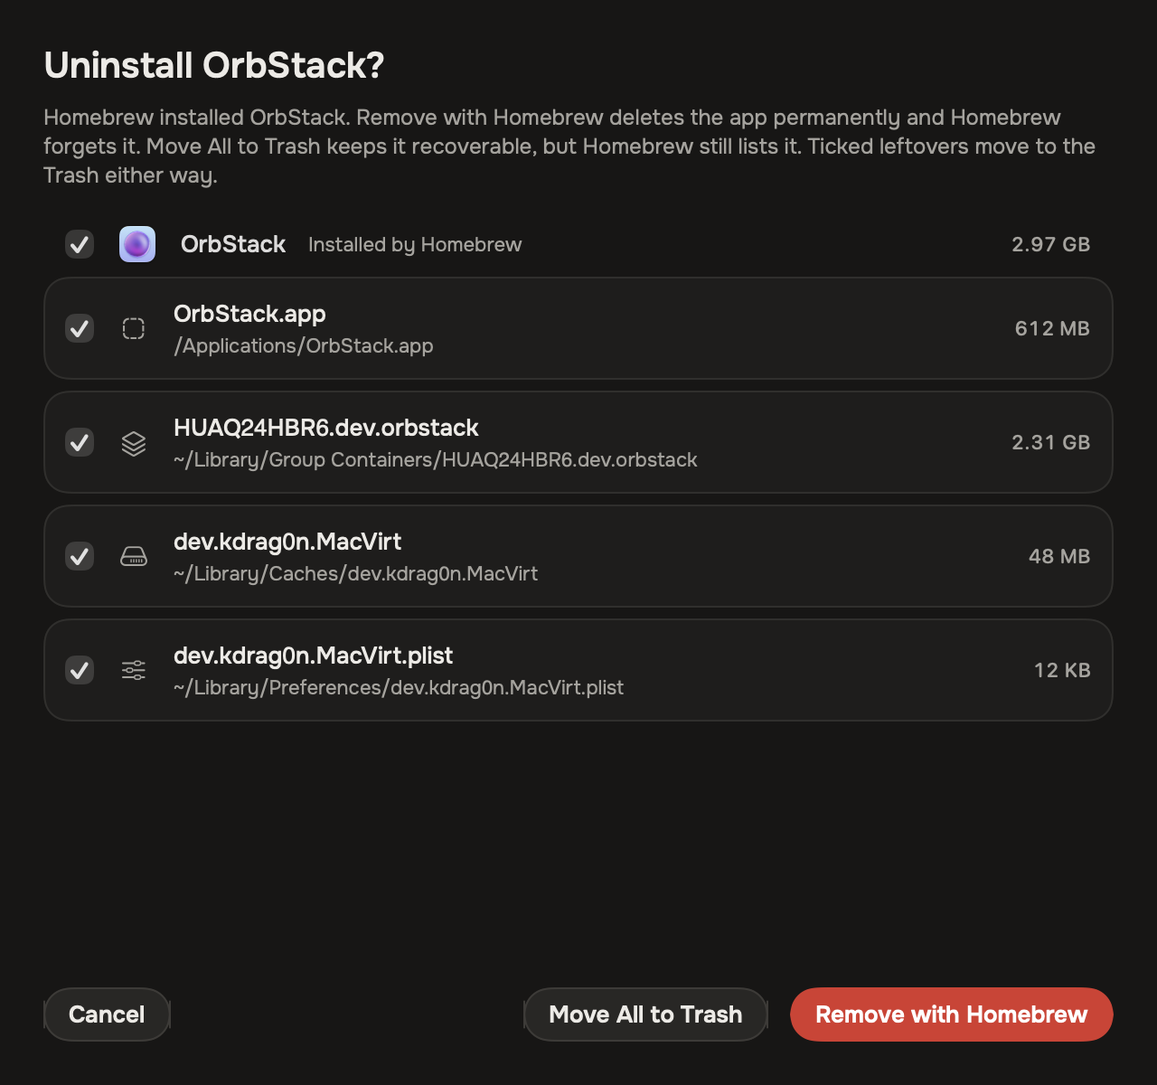
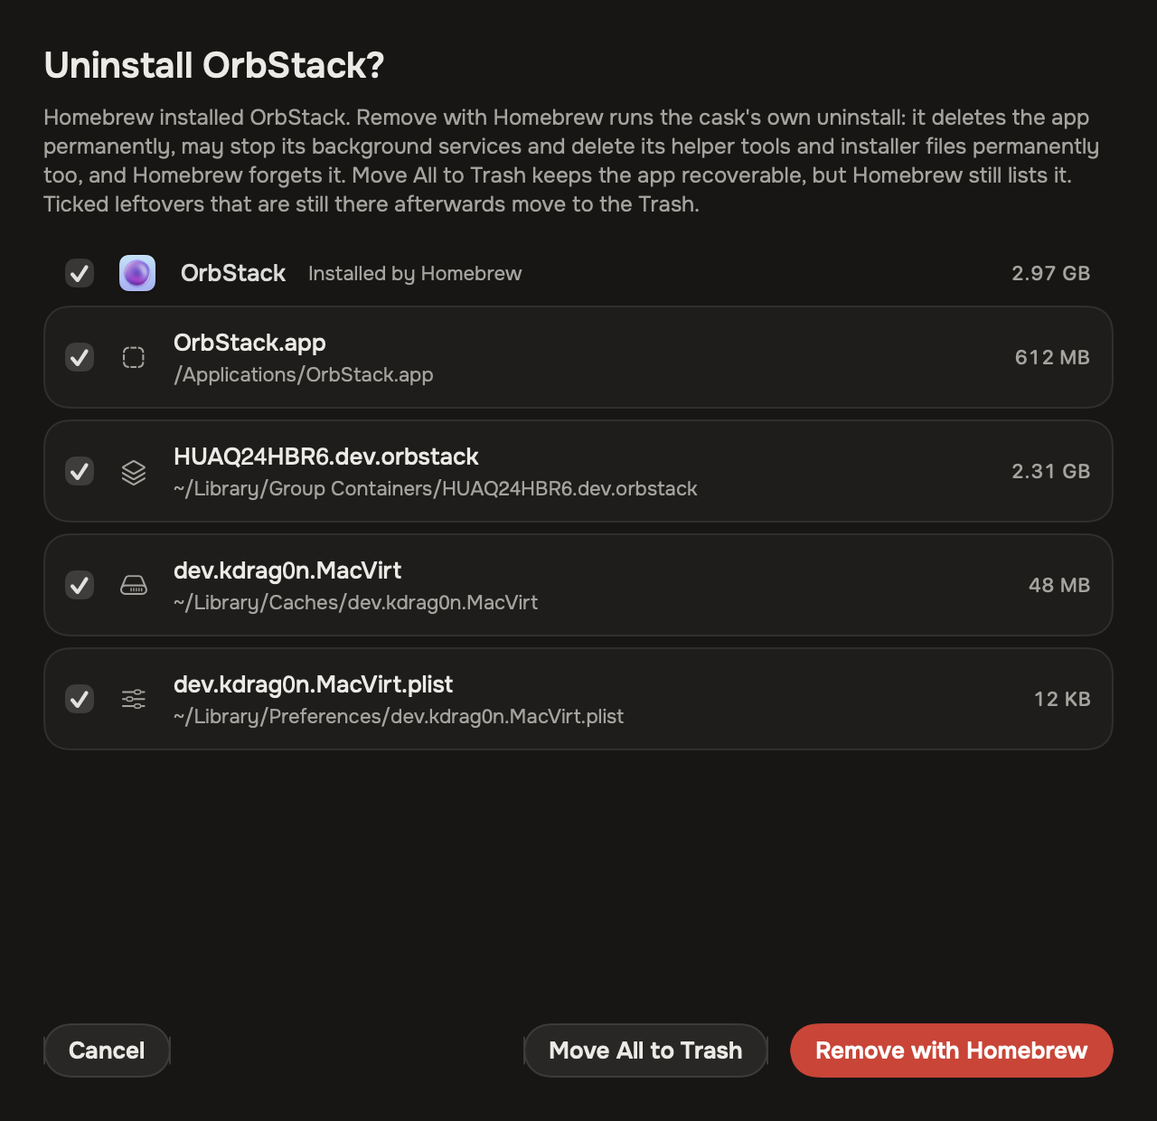
fix: address the review on the Homebrew cask uninstall
A cask that installs several apps is never offered to Homebrew, because
brew uninstall --cask would remove the siblings too. The sheet and the
docs say Homebrew also runs the cask's own uninstall steps. A fallback
note only claims the Trash once the Trash route really moved the bundle.
The Caskroom is read once per run off the main actor, the Homebrew pass
reports to the progress bar, brew cleanup gets its own timeout, and the
Installed Apps row's accessibility label says Installed by Homebrew.

diff --git a/purge/Services/PurgeStore.swift b/purge/Services/PurgeStore.swift
@@ -2904,6 +2904,42 @@ final class PurgeStore: ObservableObject {
         )
     }
 
+    /// Why Homebrew did not remove a cask app (#254), for the completion note.
+    private enum HomebrewFallbackReason {
+        /// The Caskroom no longer links the cask to this bundle.
+        case notListed
+        /// Homebrew exited with an error and the app is still there.
+        case refused(String)
+        /// Homebrew exited cleanly but the app is still there.
+        case stillPresent
+        /// No `brew` program for this prefix.
+        case managerMissing
+    }
+
+    /// The note for an app Homebrew did not remove. It only claims the Trash
+    /// when the Trash route really moved the bundle; otherwise the app is still
+    /// on this Mac and its "needs your OK" row says what to do next.
+    private static func homebrewFallbackNote(name: String, reason: HomebrewFallbackReason, movedToTrash: Bool) -> String {
+        switch (reason, movedToTrash) {
+        case (.notListed, true):
+            return String(localized: "Homebrew no longer lists \(name), so Purge moved it to the Trash instead.")
+        case (.notListed, false):
+            return String(localized: "Homebrew no longer lists \(name).")
+        case (.refused(let message), true):
+            return String(localized: "Homebrew couldn't remove \(name), so Purge moved it to the Trash instead. Homebrew said: \(message)")
+        case (.refused(let message), false):
+            return String(localized: "Homebrew couldn't remove \(name). Homebrew said: \(message)")
+        case (.stillPresent, true):
+            return String(localized: "Homebrew finished but \(name) was still there, so Purge moved it to the Trash instead.")
+        case (.stillPresent, false):
+            return String(localized: "Homebrew finished but \(name) was still there.")
+        case (.managerMissing, true):
+            return String(localized: "Purge couldn't find Homebrew, so it moved \(name) to the Trash instead.")
+        case (.managerMissing, false):
+            return String(localized: "Purge couldn't find Homebrew to remove \(name).")
+        }
+    }
+
     /// Trashes the checked items across all apps in `plan`, reusing the same
     /// live-session overlay, progress poller, and history entry as the other
     /// manual flows. Kept separate from `performLargeFileDeletion`: they share
@@ -3010,17 +3046,27 @@ final class PurgeStore: ObservableObject {
         var homebrewDeleted: [DeletedItem] = []
         var homebrewBytes: Int64 = 0
         var homebrewNotes: [String] = []
+        // Apps Homebrew did not remove, with why. Their note is written after
+        // Pass 1, once it is known whether the Trash route took them.
+        var homebrewFallbacks: [(name: String, bundlePath: String, reason: HomebrewFallbackReason)] = []
         var homebrewGonePaths = Set<String>()
         var trashBundleApps = bundleRemovingApps.filter { homebrewCasks[$0.app.id] == nil }
+        // One read of the Caskrooms for the whole run, off the main actor: the
+        // gate below compares against it, and the progress overlay keeps moving.
+        let caskPrefixes = homebrewPrefixes
+        let ownedCasks: [String: HomebrewCask] = homebrewCasks.isEmpty
+            ? [:]
+            : await Task.detached { HomebrewCaskCatalog.installedCasks(prefixes: caskPrefixes) }.value
         for entry in bundleRemovingApps {
             guard let cask = homebrewCasks[entry.app.id] else { continue }
             let bundlePath = entry.bundle.path.standardizedFileURL.path
-            guard HomebrewCaskCatalog.cask(owning: entry.bundle.path, prefixes: homebrewPrefixes) == cask else {
-                homebrewNotes.append(String(localized: "Homebrew no longer lists \(entry.app.name), so Purge moved it to the Trash instead."))
+            guard ownedCasks[bundlePath] == cask else {
+                homebrewFallbacks.append((entry.app.name, bundlePath, .notListed))
                 trashBundleApps.append(entry)
                 continue
             }
             RemovedAppMonitor.shared.noteRemovalByPurge(of: [entry.bundle.path])
+            progressBuffer.ingest(.itemStarted(name: entry.app.name))
             let tool = HomebrewCaskCatalog.uninstallTool(for: cask, bundleURL: entry.bundle.path)
             let outcome = await packageManagerUninstall(tool)
             let bundleIsGone = !FileManager.default.fileExists(atPath: bundlePath)
@@ -3033,6 +3079,7 @@ final class PurgeStore: ObservableObject {
                 ))
                 homebrewBytes += entry.bundle.sizeBytes
                 homebrewGonePaths.insert(bundlePath)
+                progressBuffer.ingest(.itemDeleted(sizeBytes: entry.bundle.sizeBytes))
             }
             switch outcome {
             case .removed:
@@ -3040,22 +3087,23 @@ final class PurgeStore: ObservableObject {
                 await homebrewCleanup(cask)
             case .gone:
                 // Nothing to remove and nothing run: the app left between the sheet
-                // and now. Its leftovers can still go.
+                // and now. Its leftovers can still go, and the total stays whole.
                 homebrewGonePaths.insert(bundlePath)
+                progressBuffer.ingest(.itemDeleted(sizeBytes: entry.bundle.sizeBytes))
             case .failed(let message):
                 if bundleIsGone {
                     recordRemoved()
                     await homebrewCleanup(cask)
                     homebrewNotes.append(String(localized: "Homebrew removed \(entry.app.name) but reported a problem: \(message)"))
                 } else {
-                    homebrewNotes.append(String(localized: "Homebrew couldn't remove \(entry.app.name), so Purge moved it to the Trash instead. Homebrew said: \(message)"))
+                    homebrewFallbacks.append((entry.app.name, bundlePath, .refused(message)))
                     trashBundleApps.append(entry)
                 }
             case .stillPresent:
-                homebrewNotes.append(String(localized: "Homebrew finished but \(entry.app.name) was still there, so Purge moved it to the Trash instead."))
+                homebrewFallbacks.append((entry.app.name, bundlePath, .stillPresent))
                 trashBundleApps.append(entry)
             case .managerMissing:
-                homebrewNotes.append(String(localized: "Purge couldn't find Homebrew, so it moved \(entry.app.name) to the Trash instead."))
+                homebrewFallbacks.append((entry.app.name, bundlePath, .managerMissing))
                 trashBundleApps.append(entry)
             }
         }
@@ -3098,6 +3146,16 @@ final class PurgeStore: ObservableObject {
                 errorMessage = String(localized: "Unable to remove \(label). Please try again.")
                 return
             }
+        }
+
+        // Now the Trash route has run, each Homebrew fallback can say what really
+        // happened: moved to the Trash, or still on this Mac with its own row.
+        for fallback in homebrewFallbacks {
+            homebrewNotes.append(Self.homebrewFallbackNote(
+                name: fallback.name,
+                reason: fallback.reason,
+                movedToTrash: movedBundlePaths.contains(fallback.bundlePath)
+            ))
         }
 
         // Partition by whether the bundle actually left. A held app keeps every one

diff --git a/PurgeTests/HomebrewCaskUninstallStoreTests.swift b/PurgeTests/HomebrewCaskUninstallStoreTests.swift
@@ -40,7 +40,7 @@ struct HomebrewCaskUninstallStoreTests {
         }
     }
 
-    private func makeFixture(linked: Bool = true) throws -> Fixture {
+    private func makeFixture(linked: Bool = true, siblingApp: Bool = false) throws -> Fixture {
         let root = fm.temporaryDirectory
             .appendingPathComponent("HomebrewCaskUninstallStoreTests-\(UUID().uuidString)", isDirectory: true)
             .standardizedFileURL
@@ -55,6 +55,11 @@ struct HomebrewCaskUninstallStoreTests {
         try fm.createDirectory(at: version, withIntermediateDirectories: true)
         if linked {
             try fm.createSymbolicLink(atPath: version.appendingPathComponent("Example.app").path, withDestinationPath: bundle.path)
+        }
+        if siblingApp {
+            let sibling = root.appendingPathComponent("Applications/Example Helper.app", isDirectory: true)
+            try fm.createDirectory(at: sibling.appendingPathComponent("Contents", isDirectory: true), withIntermediateDirectories: true)
+            try fm.createSymbolicLink(atPath: version.appendingPathComponent("Example Helper.app").path, withDestinationPath: sibling.path)
         }
         return Fixture(root: root, prefix: prefix, bundle: bundle, cask: HomebrewCask(token: "example", prefix: prefix))
     }
@@ -165,7 +170,30 @@ struct HomebrewCaskUninstallStoreTests {
         #expect(fm.fileExists(atPath: fixture.bundle.path))
         let note = try #require(store.manualDeletionSession?.notes.first)
         #expect(note.contains("Homebrew no longer lists Example"))
+        // The bundle is still here, so the note must not claim the Trash.
+        #expect(!note.contains("Trash"))
         #expect(store.lastDeletionReport?.deletedItems.isEmpty == true)
+    }
+
+    /// A cask that installed two apps is never Homebrew's to remove through
+    /// Purge, even when the plan says so: `brew uninstall --cask` would take the
+    /// sibling the user did not tick.
+    @Test
+    func aCaskWithASiblingAppNeverRunsHomebrew() async throws {
+        let fixture = try makeFixture(siblingApp: true)
+        defer { try? fm.removeItem(at: fixture.root) }
+        let scans = FakeScans()
+        defer { scans.cleanUp() }
+        let runs = Runs()
+        let store = makeStore(fixture, scans: scans, runs: runs) { _ in .removed }
+
+        await withHandoffRoot(fixture.root) { await store.confirmUninstallPlan(fixture.plan()) }
+
+        #expect(runs.tools.isEmpty)
+        #expect(runs.cleanups.isEmpty)
+        #expect(fm.fileExists(atPath: fixture.bundle.path))
+        #expect(fm.fileExists(atPath: fixture.root.appendingPathComponent("Applications/Example Helper.app").path))
+        #expect(store.lastDeletionReport?.bytesRemovedDirectly == 0)
     }
 
     /// Homebrew refusing leaves the app in place; Purge shows Homebrew's words
@@ -190,6 +218,8 @@ struct HomebrewCaskUninstallStoreTests {
         let note = try #require(store.manualDeletionSession?.notes.first)
         #expect(note.contains("Homebrew couldn't remove Example"))
         #expect(note.contains("requires sudo"))
+        // The Trash route declined the bundle, so the note must not say it moved.
+        #expect(!note.contains("moved it to the Trash"))
         #expect(store.lastDeletionReport?.bytesRemovedDirectly == 0)
         #expect(store.lastDeletionReport?.deletedItems.isEmpty == true)
     }

diff --git a/purge/Services/HomebrewCaskCatalog.swift b/purge/Services/HomebrewCaskCatalog.swift
@@ -7,9 +7,10 @@ import Foundation
 /// in the Caskroom, `Caskroom/<token>/<version>/<App>.app -> /Applications/<App>.app`,
 /// sometimes one folder down (`Media Converter.localized/Media Converter.app`).
 /// That link is the only evidence this reads: an app is a cask's when a link
-/// in that cask's folder points at the app's bundle. A cask with no such link,
-/// such as a command-line binary or a cask whose app has been moved, matches
-/// nothing.
+/// in that cask's folder points at the app's bundle, and that cask links no
+/// other app. A cask with no such link, such as a command-line binary or a
+/// cask whose app has been moved, matches nothing, and so does a cask that
+/// installs several apps, because Homebrew would remove them all together.
 ///
 /// Removal is Homebrew's: `PurgeStore` runs `brew uninstall --cask <token>`
 /// through `PackageManagerUninstaller`, which deletes the app permanently.
@@ -37,11 +38,14 @@ nonisolated enum HomebrewCaskCatalog {
             for token in PackageManagerToolScanner.directoryNames(in: caskroom)
             where PackageManager.homebrewCask.isValidPackageName(token) {
                 let cask = HomebrewCask(token: token, prefix: prefix)
-                for bundlePath in appLinkTargets(inCask: caskroom.appendingPathComponent(token, isDirectory: true)) {
-                    // The first cask to claim a bundle keeps it; two casks never
-                    // install the same app, so this only guards a hand-made mess.
-                    if result[bundlePath] == nil { result[bundlePath] = cask }
-                }
+                let bundlePaths = Set(appLinkTargets(inCask: caskroom.appendingPathComponent(token, isDirectory: true)))
+                // `brew uninstall --cask` removes every app the cask installed.
+                // A cask that owns two or more is never offered: ticking one app
+                // would delete its siblings, so those apps take the Trash route.
+                guard bundlePaths.count == 1, let bundlePath = bundlePaths.first else { continue }
+                // The first cask to claim a bundle keeps it; two casks never
+                // install the same app, so this only guards a hand-made mess.
+                if result[bundlePath] == nil { result[bundlePath] = cask }
             }
         }
         return result
@@ -87,7 +91,14 @@ nonisolated enum HomebrewCaskCatalog {
     static func cleanup(
         _ cask: HomebrewCask,
         home: URL = FileManager.default.homeDirectoryForCurrentUser,
-        runner: PackageManagerUninstaller.Runner = PackageManagerUninstaller.liveRunner
+        runner: PackageManagerUninstaller.Runner = { path, arguments, environment in
+            await ProcessRunner.runAsync(
+                executablePath: path,
+                arguments: arguments,
+                timeout: HomebrewCaskCatalog.cleanupTimeout,
+                environment: environment
+            )
+        }
     ) async -> Bool {
         guard PackageManager.homebrewCask.isValidPackageName(cask.token),
               FileManager.default.isExecutableFile(atPath: cask.brewExecutable.path) else { return false }

diff --git a/purge/Views/UninstallView.swift b/purge/Views/UninstallView.swift
@@ -960,7 +960,7 @@ private struct AppListRow: View {
         .help(app.name)
         .accessibilityElement(children: .combine)
         .accessibilityLabel(
-            "\(app.name), \(isSizePending ? String(localized: "calculating size") : formatBytes(totalBytes))\(activityLabel.map { ", \($0)" } ?? "")"
+            "\(app.name), \(isSizePending ? String(localized: "calculating size") : formatBytes(totalBytes))\(activityLabel.map { ", \($0)" } ?? "")\(app.homebrewCask == nil ? "" : ", " + String(localized: "Installed by Homebrew"))"
         )
         .accessibilityValue(isSelected ? LocalizedStringKey("Selected") : LocalizedStringKey("Not selected"))
         .accessibilityAddTraits(isSelected ? [.isButton, .isSelected] : .isButton)
@@ -1190,9 +1190,9 @@ struct UninstallReviewSheet: View {
         }
         let names = ListFormatter.localizedString(byJoining: candidates.map(\.app.name))
         if candidates.count == 1 {
-            return String(localized: "Homebrew installed \(names). Remove with Homebrew deletes the app permanently and Homebrew forgets it. Move All to Trash keeps it recoverable, but Homebrew still lists it. Ticked leftovers move to the Trash either way.")
+            return String(localized: "Homebrew installed \(names). Remove with Homebrew runs the cask's own uninstall: it deletes the app permanently, may stop its background services and delete its helper tools and installer files permanently too, and Homebrew forgets it. Move All to Trash keeps the app recoverable, but Homebrew still lists it. Ticked leftovers that are still there afterwards move to the Trash.")
         }
-        return String(localized: "Homebrew installed \(names). Remove with Homebrew deletes those apps permanently and Homebrew forgets them. Move All to Trash keeps them recoverable, but Homebrew still lists them. Ticked leftovers move to the Trash either way.")
+        return String(localized: "Homebrew installed \(names). Remove with Homebrew runs each cask's own uninstall: it deletes those apps permanently, may stop their background services and delete their helper tools and installer files permanently too, and Homebrew forgets them. Move All to Trash keeps them recoverable, but Homebrew still lists them. Ticked leftovers that are still there afterwards move to the Trash.")
     }
 
     /// With no cask app there is one button, as before. With one, the choice

diff --git a/PurgeTests/HomebrewCaskCatalogTests.swift b/PurgeTests/HomebrewCaskCatalogTests.swift
@@ -112,6 +112,25 @@ struct HomebrewCaskCatalogTests {
         #expect(HomebrewCaskCatalog.installedCasks(prefixes: [fixture.prefix]).isEmpty)
     }
 
+    /// `brew uninstall --cask` removes every app a cask installed, so a cask
+    /// that links two apps owns neither here: ticking one would delete the other.
+    @Test
+    func aCaskWithTwoAppsOwnsNeither() throws {
+        let fixture = try makeFixture()
+        defer { try? fm.removeItem(at: fixture.root) }
+        let first = try makeBundle("Suite One", in: fixture)
+        let second = try makeBundle("Suite Two", in: fixture)
+        try link(token: "suite", to: first, in: fixture)
+        try link(token: "suite", to: second, in: fixture)
+        let single = try makeBundle("Solo", in: fixture)
+        try link(token: "solo", to: single, in: fixture)
+
+        let casks = HomebrewCaskCatalog.installedCasks(prefixes: [fixture.prefix])
+        #expect(casks.keys.sorted() == [single.path])
+        #expect(HomebrewCaskCatalog.cask(owning: first, prefixes: [fixture.prefix]) == nil)
+        #expect(HomebrewCaskCatalog.cask(owning: second, prefixes: [fixture.prefix]) == nil)
+    }
+
     /// A Caskroom folder name reaches `brew`'s argv, so one that could read as
     /// an option or has a space is never a token.
     @Test

diff --git a/CLAUDE.md b/CLAUDE.md
@@ -50,7 +50,7 @@ Cloud sessions run on Linux, so they can build no Swift code. Run the two Linux 
   - Another exception is the Apple Intelligence models (#133). Purge deletes no files there: Apple's asset service releases each set, one name per request, from the fixed list in `purge/Models/AppleIntelligenceModels.swift`. A release with an empty list means every asset on the Mac, so `PurgeAssetWorker/` refuses one and the app never builds one. Don't use this exception as a pattern for anything else.
   - Simulator runtimes (#104) are the third exception. Purge deletes no files there either. `simctl runtime delete` removes each image by the identifier `simctl runtime list` gave it, and the path on the row is only a handle. The gates are these. The scan keeps only images `simctl` marks `deletable` (`SimulatorRuntime.parseRuntimeList`). Runtimes are always Check First (#136), and the user must pick the row and confirm. Clean Safe Items and scheduled cleans never pass runtime identifiers to `FileDeleter`, even for a row marked Safe. A runtime path that reaches `FileDeleter` without its identifier goes to `evaluate`, which refuses it. `PurgeTests/SimulatorRuntimeTests.swift`, `SimulatorRuntimeStoreTests.swift`, and `FileDeleterSimulatorRuntimeTests.swift` check each gate. Simulator devices are not part of this exception: they go through `evaluate` before `simctl delete`.
   - Package-manager tools (#225) are the fourth exception. Purge deletes no files there either. It runs the manager's own uninstall (`brew uninstall --formula`, `npm uninstall -g`, `pipx uninstall`, `uv tool uninstall`, `cargo uninstall`) for each tool the user ticked and confirmed, one at a time, with an absolute program path, argv and no shell, through `PackageManagerUninstaller`. It never adds a flag that skips the manager's dependency checks. Names come from folders on disk, so `PackageManager.isValidPackageName` checks them first. Nothing a manager owns is ever a `FileDeleter` candidate.
-  - Homebrew cask apps (#254) are the fifth exception, and use the fourth's runner. `HomebrewCaskCatalog` reads the Caskroom link `Caskroom/<token>/<version>/<App>.app -> /Applications/<App>.app` and nothing else; an app is a cask's only when that link points at its bundle, re-read at delete time. The review sheet offers two buttons when a cask app's bundle is ticked, Remove with Homebrew and Move All to Trash, and its intro says Homebrew deletes the app permanently. Purge runs `brew uninstall --cask <token>` through `PackageManagerUninstaller`, never `--force` or `--zap`, then `brew cleanup --scrub <token>` to drop the cask's cached download (a plain `brew cleanup` keeps it), and its own leftover review still moves the rest to the Trash. If Homebrew refuses, the app takes the ordinary Trash route and the completion screen shows Homebrew's message. Clean Safe Items and scheduled cleans never reach this.
+  - Homebrew cask apps (#254) are the fifth exception, and use the fourth's runner. `HomebrewCaskCatalog` reads the Caskroom link `Caskroom/<token>/<version>/<App>.app -> /Applications/<App>.app` and nothing else; an app is a cask's only when that link points at its bundle and the cask links no other app, re-read at delete time. A cask that installs several apps is never offered, because `brew uninstall --cask` removes them all. Homebrew's uninstall also runs the cask's own `uninstall` stanza (quit, launchctl, pkgutil, delete, scripts), all of it permanent, and the sheet says so. The review sheet offers two buttons when a cask app's bundle is ticked, Remove with Homebrew and Move All to Trash, and its intro says Homebrew deletes the app permanently. Purge runs `brew uninstall --cask <token>` through `PackageManagerUninstaller`, never `--force` or `--zap`, then `brew cleanup --scrub <token>` to drop the cask's cached download (a plain `brew cleanup` keeps it), and its own leftover review still moves the rest to the Trash. If Homebrew refuses, the app takes the ordinary Trash route and the completion screen shows Homebrew's message. Clean Safe Items and scheduled cleans never reach this.
 - Files go to the Trash. Simulators, simulator runtimes, Time Machine snapshots, the Apple Intelligence models, and tools a package manager removes are removed for good, and the UI and docs must say so. Anything removed for good is never `.safe`, because Clean Safe Items and scheduled cleans only move things to the Trash (#136).
 - Run the `deletion-safety-check` skill before you open a PR that touches any of these:
   - `purge/Services/DeletionSafetyPolicy.swift`, `SafetyTierList.swift`, `SafetyAllowlistSummary.swift`, `FileDeleter.swift`

diff --git a/README.md b/README.md
@@ -121,7 +121,7 @@ Dragging an app to the Trash leaves most of it behind: caches, preferences, cont
 - Select one or more apps, then review a per-app sheet that lists every item with its path and size and a safety label
 - Matching is strict, so uninstalling one app can't sweep in files shared across a vendor's apps. Exact bundle-id and app-group matches arrive checked; looser name-only matches arrive unchecked for you to confirm
 - A running app is asked to quit first, and only gracefully. If it won't, it's left installed and the rest of the batch still goes through
-- Everything confirmed moves to **Trash** through the same delete engine as the rest of Purge, so it can all come back. The one exception is an app Homebrew installed as a cask: the review sheet offers two buttons, Remove with Homebrew and Move All to Trash, and says that Homebrew deletes the app permanently. Its leftovers still go to the Trash, and if Homebrew refuses, the app goes to the Trash instead
+- Everything confirmed moves to **Trash** through the same delete engine as the rest of Purge, so it can all come back. The one exception is an app Homebrew installed as a cask: the review sheet offers two buttons, Remove with Homebrew and Move All to Trash, and says that Homebrew deletes the app permanently and runs the cask's own uninstall steps, which can stop its background services and delete its helper tools and installer files permanently too. A cask that installs several apps is never offered to Homebrew. Its leftovers still go to the Trash, and if Homebrew refuses, the app goes to the Trash instead
 - Optional, off by default: turn on **Review leftovers when an app is deleted** in Settings. A small background watcher then notices when an app leaves **Applications** or **~/Applications** — even if Purge is quit — opens Purge with just that app's leftovers, and gets out of the way after you confirm or dismiss. Nothing moves without that review
 
 ### Safety labels

diff --git a/SECURITY.md b/SECURITY.md
@@ -30,8 +30,10 @@ patient, but safety reports get priority over everything else.
   service and can be downloaded again; see below. Command-line tools and
   Homebrew cask apps you tick for removal through their package manager are
   uninstalled by that manager (`brew uninstall`, `npm uninstall -g`, and so
-  on), which deletes them permanently; the review sheet says so, and a cask
-  app has a Move All to Trash button to take the Trash route instead. Docker Desktop's data
+  on), which deletes them permanently and, for a cask, runs its own uninstall
+  steps (services, helper tools, installer receipts) permanently too; the
+  review sheet says so, and a cask app has a Move All to Trash button to take
+  the Trash route instead. Docker Desktop's data
   folder goes to the Trash. Purge does not run `docker system prune`.
 - **Allowlist-based deletion.** Only paths that match an explicit safety
   allowlist are ever eligible for cleanup. Anything not on the list is never
